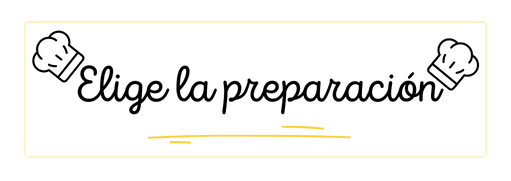
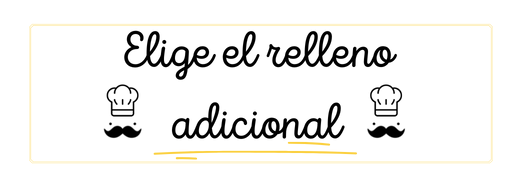
Add files via upload

Changed region(s): [[0.0294, 0.1105, 0.9687, 0.9116]]

diff --git a/main.py b/main.py
@@ -1,7 +1,7 @@
-
 from kivymd.app import MDApp
 from kivy.lang.builder import Builder
 from kivy.uix.screenmanager import ScreenManager, Screen
+from kivy.properties import StringProperty
 screen_helper = """
 ScreenManager:
     MenuScreen:
@@ -10,6 +10,7 @@ ScreenManager:
     IngredientesScreen:
     IngredienteAdScreen:
     salsa:
+    recibo:
 <MenuScreen>:
     name: 'menu'
     MDBoxLayout:
@@ -122,7 +123,7 @@ ScreenManager:
 <PreparacionScreen>:
     name: 'Preparacion'
     Image:
-        source:'Imagen/Titulo2.png'
+        source:'Imagen/Titulo1.png'
         pos_hint: {'center_x':0.5,'center_y':0.9}
         size_hint:(0.5,0.5)
     MDRectangleFlatButton:
@@ -157,7 +158,7 @@ ScreenManager:
 <IngredientesScreen>
     name: 'Ingrediente'
     Image:
-        source:'Imagen/Titulo3.png'
+        source:'Imagen/Titulo2.png'
         pos_hint: {'center_x':0.5,'center_y':0.9}
         size_hint:(0.5,0.5)
     MDRectangleFlatButton:
@@ -224,7 +225,7 @@ ScreenManager:
 <IngredienteAdScreen>
     name: 'IngredienteAD'
     Image:
-        source:'Imagen/Titulo4.png'
+        source:'Imagen/Titulo3.png'
         pos_hint: {'center_x':0.5,'center_y':0.9}
         size_hint:(0.5,0.5)
     MDRectangleFlatButton:
@@ -280,7 +281,7 @@ ScreenManager:
 <salsa>
     name: 'salsa'
     Image:
-        source:'Imagen/Titulo5.png'
+        source:'Imagen/Titulo4.png'
         pos_hint: {'center_x':0.5,'center_y':0.9}
         size_hint:(0.5,0.5)
     MDRectangleFlatButton:
@@ -296,7 +297,11 @@ ScreenManager:
         pos_hint: {"center_x": 0.3, "center_y": 0.3}
         size_hint:(0.2,0.2)
         line_color: 0, 0, 0, 0
-        
+         
+        on_press: root.manager.current = 'recibo'
+               
+        on_press: root.salsa('Salsa_Rosada')
+
         Image:
             source:'Imagen/salsa1.png'
             center_x:self.parent.center_x
@@ -305,7 +310,8 @@ ScreenManager:
         pos_hint: {"center_x": 0.7, "center_y": 0.3}
         size_hint:(0.2,0.2)
         line_color: 0, 0, 0, 0
-      
+        on_press: root.manager.current = 'recibo'
+        on_press: root.salsa('Salsa_Suero')
         Image:
             source:'Imagen/salsa4.png'
             center_x:self.parent.center_x
@@ -314,7 +320,8 @@ ScreenManager:
         pos_hint: {"center_x": 0.7, "center_y": 0.6}
         size_hint:(0.2,0.2)
         line_color: 0, 0, 0, 0
-      
+        on_press: root.manager.current = 'recibo'
+        on_press: root.salsa('Salsa_Picante')
         Image:
             source:'Imagen/salsa2.png'
             center_x:self.parent.center_x
@@ -323,7 +330,8 @@ ScreenManager:
         pos_hint: {"center_x": 0.3, "center_y": 0.6}
         size_hint:(0.2,0.2)
         line_color: 0, 0, 0, 0
-       
+        on_press: root.manager.current = 'recibo'
+        on_press: root.salsa('Salsa_Tartara')
         Image:
             source:'Imagen/salsa3.png'
             center_x:self.parent.center_x
@@ -332,37 +340,145 @@ ScreenManager:
         pos_hint: {"center_x": 0.5, "center_y": 0.5}
         size_hint:(0.2,0.2)
         line_color: 0, 0, 0, 0
-        on_press: root.manager.current = 'salsa'
+        on_press: root.manager.current = 'recibo'
+        on_press: root.salsa('nada')
         Image:
             source:'Imagen/nada.png'
             center_x:self.parent.center_x
             center_y:self.parent.center_y
+    
+<recibo>:
+    name:'recibo'
+    Image:
+        source:'Imagen/Titulo5.png'
+        pos_hint: {'center_x':0.5,'center_y':0.9}
+        size_hint:(0.5,0.5)
+    MDLabel:
+        id:Titulo_tipo
+        pos_hint:{"center_x":0.5,"center_y":0.7+0.03}
+        size_hint:(.5,.5)
+        theme_text_color:"Primary"
+        font_style:"Body2"
+        halign:"center"
+        text: ' '
+    MDLabel:
+        id:Titulo_Preparacion
+        pos_hint:{"center_x":0.5,"center_y":0.6+0.05}
+        size_hint:(.5,.5)
+        theme_text_color:"Primary"
+        font_style:"Body2"
+        halign:"center"
+        text: ' '
+    MDLabel:
+        id:Titulo_Relleno
+        pos_hint:{"center_x":0.5,"center_y":0.5+0.07}
+        size_hint:(.5,.5)
+        theme_text_color:"Primary"
+        font_style:"Body2"
+        halign:"center"
+        text: ' '
+    MDLabel:
+        id:Titulo_RellenoAD
+        pos_hint:{"center_x":0.5,"center_y":0.5}
+        size_hint:(.5,.5)
+        theme_text_color:"Primary"
+        font_style:"Body2"
+        halign:"center"
+        text: ' '
+    MDLabel:
+        id:Titulo_salsa
+        pos_hint:{"center_x":0.5,"center_y":0.4}
+        size_hint:(.5,.5)
+        theme_text_color:"Primary"
+        font_style:"Body2"
+        halign:"center"
+        text: ' '
+    MDLabel:
+        id:Informacion_Tipo
+        pos_hint:{"center_x":0.5,"center_y":0.6+0.09}
+        size_hint:(.5,.5)
+        theme_text_color:"Primary"
+        font_style:"Body2"
+        halign:"center"
+        text: ' '
+    MDLabel:
+        id:Informacion_Prepa
+        pos_hint:{"center_x":0.5,"center_y":0.6+0.02}
+        size_hint:(.5,.5)
+        theme_text_color:"Primary"
+        font_style:"Body2"
+        halign:"center"
+        text: ' '
+    MDLabel:
+        id:Informacion_Relle
+        pos_hint:{"center_x":0.5,"center_y":0.5+0.04}
+        size_hint:(.5,.5)
+        theme_text_color:"Primary"
+        font_style:"Body2"
+        halign:"center"
+        text: ' '
+    MDLabel:
+        id:Informacion_RelleAd
+        pos_hint:{"center_x":0.5,"center_y":0.4+0.06}
+        size_hint:(.5,.5)
+        theme_text_color:"Primary"
+        font_style:"Body2"
+        halign:"center"
+        text: ' '
+    MDLabel:
+        id:Informacion_Salsa
+        pos_hint:{"center_x":0.5,"center_y":0.3+0.06}
+        size_hint:(.5,.5)
+        theme_text_color:"Primary"
+        font_style:"Body2"
+        halign:"center"
+        text: ' '
+    BoxLayout:
+        Image:
+            source:'Imagen/Forma_recibo.png'
+            pos_hint: {'center_x':0.5,'center_y':0.5}
+            size_hint:(0.5,0.5)
+    BoxLayout:
+        Image:
+            id:info
+            source:'Imagen/icon_info.png'
+            pos_hint: {'center_x':0.5,'center_y':0.5}
+            size_hint:(0.5/8,0.5/8)
+    
+    MDRectangleFlatButton:
+        pos_hint: {"center_x": 0.2, "center_y": 0.1}
+        size_hint:(0.1,0.1)
+        line_color: 0, 0, 0, 0
+        on_press: root.manager.current = 'salsa'
+        on_press: root.Ocultar()
+        Image:
+            source:'Imagen/volver.png'
+            center_x:self.parent.center_x
+            center_y:self.parent.center_y
+    MDRectangleFlatButton:
+        pos_hint: {"center_x": 0.5, "center_y": 0.1}
+        size_hint:(0.1/2,0.1/2)
+        on_press: root.Mostrar_Recibo()
+        text:'Mostrar info'
+   
 """
 
 class Frito():
-   
-    def tipo(self,select):
-       
+    def tipo_f(self,select):
        if select=='papa':
            Tipo='Papa'
-           
        elif select =='Empanada':
-            Tipo='Empanada'
-            
+            Tipo='Empanada'   
        elif select=='Arepa':
             Tipo='Arepa'
-            
-       self.Tipo = Tipo
+       self.Tipo=Tipo
+       return Tipo
     def preparacion(self,select):
-      
         if select=='Horneado':
             prepar='Horneado'
-            
         elif select=='Frito':
             prepar='Frito'
-            
         self.prepar = prepar
-
     def relleno(self,select):
         if select == 'Carne':
             relle='Carne'
@@ -384,17 +500,37 @@ class Frito():
             rellead='piña'
         elif select == 'nada':
             rellead='Ninguno'
-        
         self.rellead = rellead
-                  
-    def mostrar(self):
-     print('tipo de Frito: {}'.format(self.Tipo)) 
-     print('tipo de preparacion: {}'.format(self.prepar))
-     print('Relleno de la {} : {}'.format(self.Tipo,self.relle))
-     print('Relleno adicional de la {} : {}'.format(self.Tipo,self.rellead))
+    def salsa_f(self,select):
+        if select == 'Salsa_Rosada':
+                Salsa='Rosada'
+        elif select == 'Salsa_Picante':
+                Salsa='Picante'
+        elif select == 'Salsa_Tartara':
+                Salsa='Tartara'
+        elif select == 'Salsa_Suero':
+                Salsa='Suero'
+        elif select == 'nada':
+                Salsa='Ninguno'
+        self.Salsa = Salsa
+    def mostrar(self,n):
+        if(n==1):
+         desplegar= f'{self.Tipo}'
+        elif(n==2):
+         desplegar= f'{self.prepar}'
+        elif(n==3):
+         desplegar= f'{self.relle}'
+        elif(n==4):
+         desplegar= f'{self.rellead}'
+        elif(n==5):
+         desplegar= f'{self.Salsa}'
+        return desplegar
+     #print('Tipo de preparacion: {}'.format(self.prepar))
+     #print('Relleno de la {} : {}'.format(self.Tipo,self.relle))
+     #print('Relleno adicional de la {} : {}'.format(self.Tipo,self.rellead))
+     #print('Tipo de salsa : {}'.format(self.Salsa))
 
-class recibo() :
-    pass
+
 
 frito=Frito()
 
@@ -404,14 +540,12 @@ class MenuScreen(Screen):
     def prueba1(self):
         print('Prueba')
 
-class SeleccionScreen(Screen,Frito):
+class SeleccionScreen(Screen):
      def Tipofrito(self,n):
-        frito.tipo(n)
-
-class PreparacionScreen(Screen,Frito):
+        frito.tipo_f(n)
+class PreparacionScreen(Screen):
     def TipoPrepa(self,n):
-        frito.preparacion(n)
-        
+        frito.preparacion(n)       
     
 class IngredientesScreen(Screen):
     def tiporelle(self,n):
@@ -420,10 +554,37 @@ class IngredientesScreen(Screen):
 class IngredienteAdScreen(Screen):
     def TiporelleAd(self,n):
         frito.relleno_ad(n)
-        frito.mostrar()
 
 class salsa(Screen):
-    pass
+    def salsa(self,n):
+       frito.salsa_f(n)
+
+class recibo(Screen):
+   def Mostrar_Recibo(self):
+       self.ids.Titulo_tipo.text='Tipo:'
+       self.ids.Titulo_Preparacion.text='Preparación:'
+       self.ids.Titulo_Relleno.text='Relleno:'
+       self.ids.Titulo_RellenoAD.text='Relleno Adicional:'
+       self.ids.Titulo_salsa.text='Salsa:'
+       self.ids.Informacion_Tipo.text=f'{frito.mostrar(1)}'
+       self.ids.Informacion_Prepa.text=f'{frito.mostrar(2)}'
+       self.ids.Informacion_Relle.text=f'{frito.mostrar(3)}'
+       self.ids.Informacion_RelleAd.text=f'{frito.mostrar(4)}'
+       self.ids.Informacion_Salsa.text=f'{frito.mostrar(5)}'
+       self.ids.info.pos_hint={'center_x':0.7,'center_y':0.3}
+   def Ocultar(self):
+       self.ids.Titulo_tipo.text=' '
+       self.ids.Titulo_Preparacion.text=' '
+       self.ids.Titulo_Relleno.text=' '
+       self.ids.Titulo_RellenoAD.text=' '
+       self.ids.Titulo_salsa.text=' '
+       self.ids.Informacion_Tipo.text=' '
+       self.ids.Informacion_Prepa.text=' '
+       self.ids.Informacion_Relle.text=' '
+       self.ids.Informacion_RelleAd.text=' '
+       self.ids.Informacion_Salsa.text=' '
+       self.ids.info.pos_hint={'center_x':0.5,'center_y':0.5}
+
 sm = ScreenManager()
 sm.add_widget(MenuScreen(name='menu'))
 sm.add_widget(SeleccionScreen(name='Seleccion'))
@@ -431,12 +592,11 @@ sm.add_widget(PreparacionScreen(name='Preparacion'))
 sm.add_widget(IngredientesScreen(name='Igrediente'))
 sm.add_widget(IngredienteAdScreen(name='IngredienteAD'))
 sm.add_widget(salsa(name='salsa'))
+sm.add_widget(recibo(name='recibo'))
 
 class DemoApp(MDApp):
-    
     def build(self):
         screen = Builder.load_string(screen_helper)
-        
         return screen
 if __name__ == '__main__':       
   DemoApp().run()
